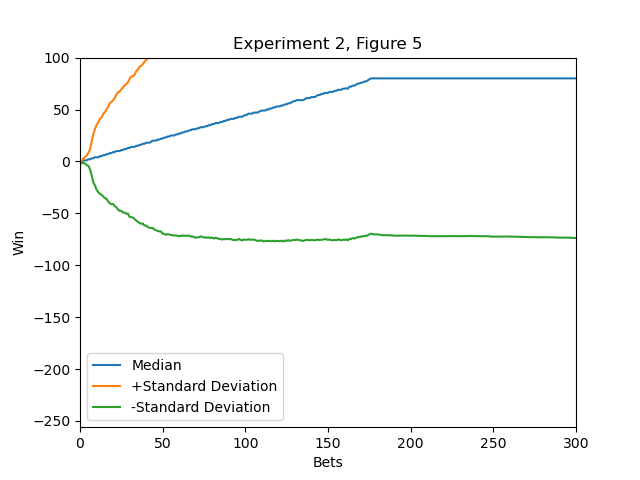
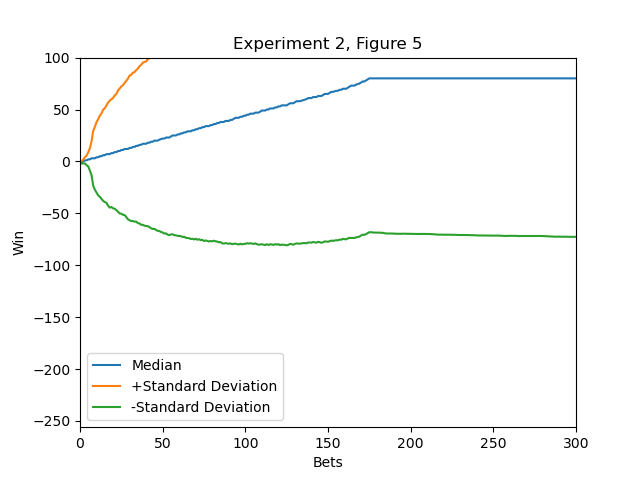
fix to the loop for the two scenarios

diff --git a/martingale/martingale.py b/martingale/martingale.py
@@ -80,7 +80,7 @@ def strategy(win_prob, max_i, i, a, budget = 0, check_budget = False):
     j = 1
     bet = 1
 
-    while (episode_winnings < 80 and j < max_i) or (check_budget and budget>=0 and episode_winnings < 80 and j < max_i):
+    while (not check_budget and episode_winnings < 80 and j < max_i) or (check_budget and budget>0 and episode_winnings < 80 and j < max_i):
 
         if get_spin_result(win_prob):
             episode_winnings += bet